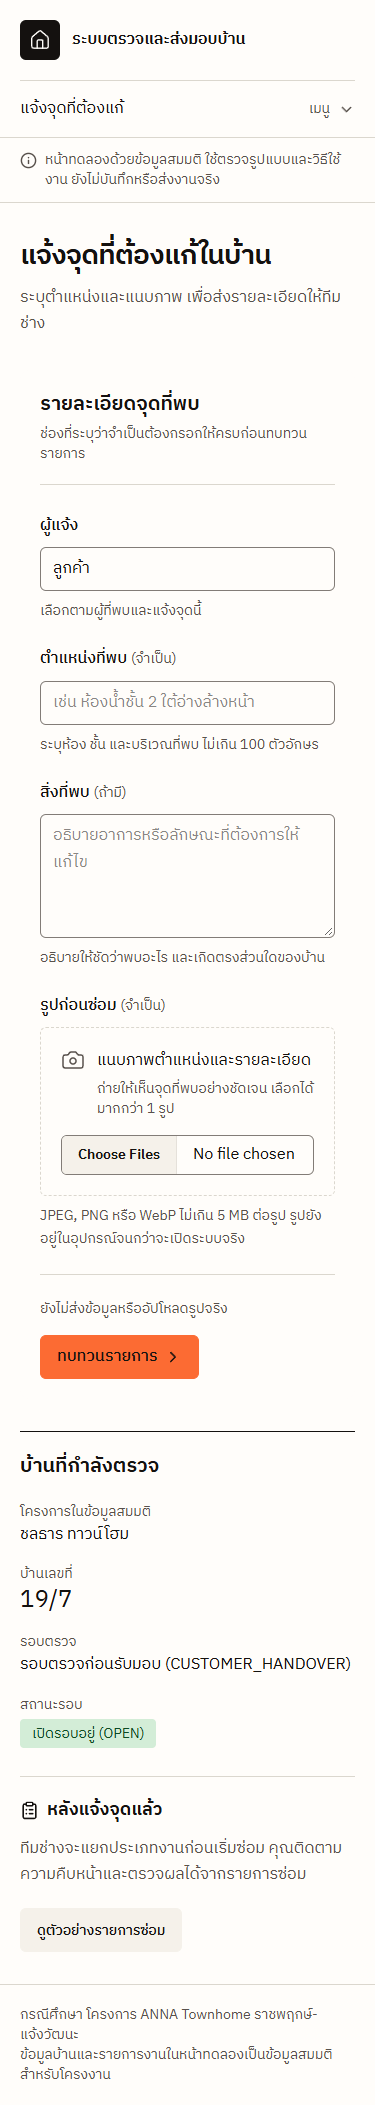
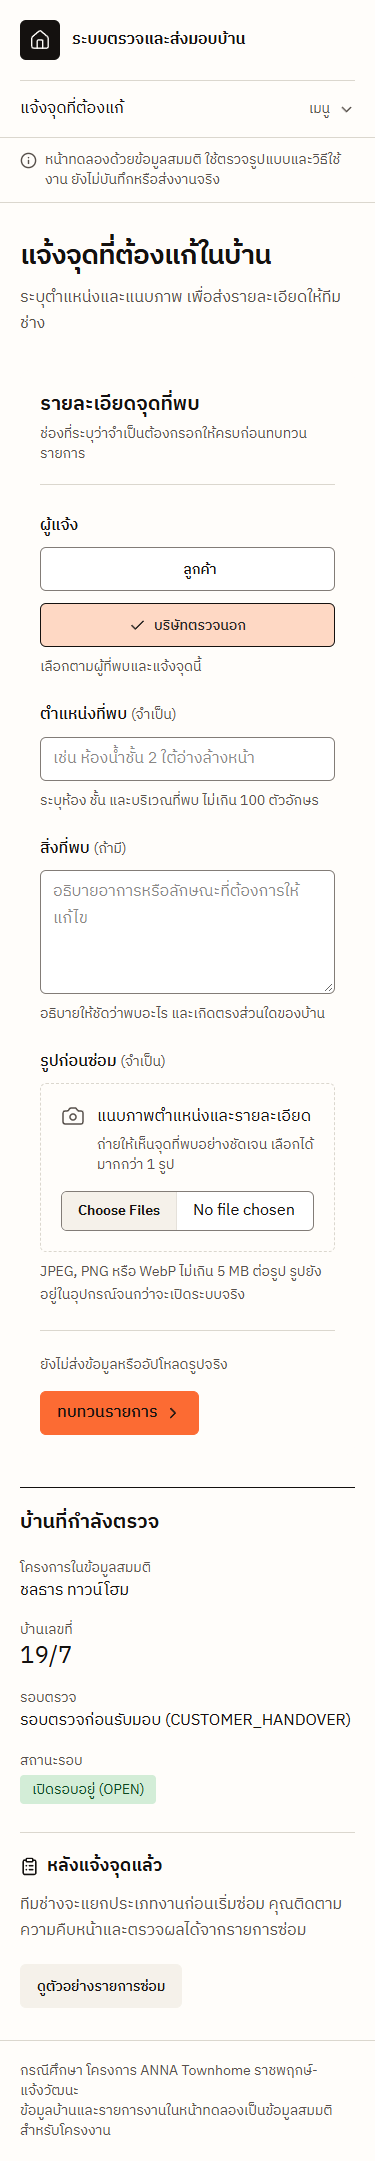
Fix grouped input focus and refine reporter selection

diff --git a/src/components/report-pilot.tsx b/src/components/report-pilot.tsx
@@ -1,7 +1,7 @@
 "use client";
 import {useRef,useState} from "react";
 import Link from "next/link";
-import {Camera,FileImage,ClipboardList,X,ChevronRight} from "lucide-react";
+import {Camera,FileImage,ClipboardList,X,ChevronRight,Check} from "lucide-react";
 type Errors=Partial<Record<"location"|"description"|"photos",string>>;
 export function ReportPilot(){
   const [reporter,setReporter]=useState("CUSTOMER"),[location,setLocation]=useState(""),[description,setDescription]=useState("");
@@ -15,7 +15,7 @@ export function ReportPilot(){
       <section className="min-w-0 rounded-box bg-base-100 p-5 sm:p-8" aria-label="แบบฟอร์มแจ้งจุด">
         <div className="mb-7 border-b border-base-300 pb-5"><h2 className="text-xl">รายละเอียดจุดที่พบ</h2><p className="mt-1 text-sm text-muted">ช่องที่ระบุว่าจำเป็นต้องกรอกให้ครบก่อนทบทวนรายการ</p></div>
         <form ref={formRef} onSubmit={submit} data-endpoint="" noValidate className="space-y-6">
-          <div><label htmlFor="reporter" className="field-label">ผู้แจ้ง</label><select id="reporter" name="reported_by_type" className="select w-full sm:max-w-72" value={reporter} onChange={e=>{setReporter(e.target.value);setReview(false);}}><option value="CUSTOMER">ลูกค้า</option><option value="EXTERNAL">บริษัทตรวจนอก</option></select><p className="helper mt-2">เลือกตามผู้ที่พบและแจ้งจุดนี้</p></div>
+          <fieldset aria-describedby="reporter-help"><legend className="field-label">ผู้แจ้ง</legend><div className="grid grid-cols-1 gap-3 sm:max-w-md sm:grid-cols-2">{[{value:"CUSTOMER",label:"ลูกค้า"},{value:"EXTERNAL",label:"บริษัทตรวจนอก"}].map(option=><label key={option.value} className="btn reporter-choice"><input type="radio" name="reported_by_type" value={option.value} checked={reporter===option.value} onChange={()=>{setReporter(option.value);setReview(false);}} className="sr-only"/><Check size={17} aria-hidden="true" className={reporter===option.value?"shrink-0":"invisible shrink-0"}/><span>{option.label}</span></label>)}</div><p id="reporter-help" className="helper mt-2">เลือกตามผู้ที่พบและแจ้งจุดนี้</p></fieldset>
           <div><label htmlFor="location" className="field-label">ตำแหน่งที่พบ <span className="text-sm font-normal text-muted">(จำเป็น)</span></label><input id="location" data-field="location" name="location_pin" type="text" autoComplete="off" required aria-required="true" aria-invalid={!!errors.location} aria-describedby="location-help" placeholder="เช่น ห้องน้ำชั้น 2 ใต้อ่างล้างหน้า" className="input w-full" value={location} onChange={e=>{setLocation(e.target.value);setReview(false);}} onBlur={()=>{if(location)setErrors(v=>({...v,location:location.trim().length>100?"ตำแหน่งยาวเกิน 100 ตัวอักษร":undefined}));}}/><p id="location-help" className={`helper mt-2 ${errors.location?'text-error-content!':''}`}>{errors.location??"ระบุห้อง ชั้น และบริเวณที่พบ ไม่เกิน 100 ตัวอักษร"}</p></div>
           <div><label htmlFor="description" className="field-label">สิ่งที่พบ <span className="text-sm font-normal text-muted">(ถ้ามี)</span></label><textarea id="description" data-field="description" name="description" aria-invalid={!!errors.description} aria-describedby="description-help" rows={4} placeholder="อธิบายอาการหรือลักษณะที่ต้องการให้แก้ไข" className="textarea w-full resize-y" value={description} onChange={e=>{setDescription(e.target.value);setReview(false);}}/><p id="description-help" className={`helper mt-2 ${errors.description?'text-error-content!':''}`}>{errors.description??"อธิบายให้ชัดว่าพบอะไร และเกิดตรงส่วนใดของบ้าน"}</p></div>
           <div><label htmlFor="photos" className="field-label">รูปก่อนซ่อม <span className="text-sm font-normal text-muted">(จำเป็น)</span></label><div className="rounded-field border border-dashed border-base-300 p-5"><div className="mb-4 flex items-start gap-3"><Camera size={24} strokeWidth={1.5} className="shrink-0 text-muted" aria-hidden="true"/><div><p>แนบภาพตำแหน่งและรายละเอียด</p><p className="mt-1 text-sm text-muted">ถ่ายให้เห็นจุดที่พบอย่างชัดเจน เลือกได้มากกว่า 1 รูป</p></div></div><input id="photos" data-field="photos" name="photos" type="file" accept="image/jpeg,image/png,image/webp" multiple className="file-input w-full" aria-required="true" aria-invalid={!!errors.photos} aria-describedby="photos-help" onChange={e=>{setPhotos(Array.from(e.target.files??[]));setReview(false);setErrors(v=>({...v,photos:undefined}));}}/></div><p id="photos-help" className={`helper mt-2 ${errors.photos?'text-error-content!':''}`}>{errors.photos??"JPEG, PNG หรือ WebP ไม่เกิน 5 MB ต่อรูป รูปยังอยู่ในอุปกรณ์จนกว่าจะเปิดระบบจริง"}</p>

diff --git a/src/app/globals.css b/src/app/globals.css
@@ -41,6 +41,7 @@
   --color-focus: oklch(43% 0.14 40);
   --color-muted: oklch(44% 0.012 60);
   --color-strong-rule: oklch(59% 0.01 60);
+  --color-field-surface: #ffffff;
   --dur-micro: 120ms;
   --ease-out: cubic-bezier(0.16, 1, 0.3, 1);
   --container-width: 80rem;
@@ -54,7 +55,12 @@ h1, h2, h3 { min-width: 0; overflow-wrap: break-word; font-weight: 600; line-hei
 button, a, input, select, textarea, summary { -webkit-tap-highlight-color: transparent; }
 :where(a, button, input, select, textarea, summary):focus-visible { outline: 2px solid var(--color-focus); outline-offset: 3px; }
 .input:focus-visible, .select:focus-visible, .textarea:focus-visible, .file-input:focus-visible { outline-offset: -3px; }
-.input, .select, .textarea, .file-input { border-color: var(--color-strong-rule); background: var(--color-base-100); font-size: 1rem; }
+.input, .select, .textarea, .file-input { border-color: var(--color-strong-rule); background: var(--color-field-surface); font-size: 1rem; }
+.input:has(> input):focus-within { border-color: var(--color-focus); outline: 2px solid var(--color-focus); outline-offset: 2px; }
+.input > input:focus, .input > input:focus-visible { outline: 0; box-shadow: none; }
+.reporter-choice { justify-content: center; gap: 0.5rem; border-color: var(--color-strong-rule); background: var(--color-field-surface); }
+.reporter-choice:has(input:checked) { border-color: var(--color-base-content); background: var(--color-accent); color: var(--color-accent-content); }
+.reporter-choice:has(input:focus-visible) { outline: 2px solid var(--color-focus); outline-offset: 3px; }
 .input, .select, .btn { min-height: 2.75rem; }
 .btn { font-weight: 500; box-shadow: none; transition: transform var(--dur-micro) var(--ease-out); }
 .btn:active:not(:disabled) { transform: translateY(1px); }

diff --git a/docs/UI-REVIEW-CHANGES.md b/docs/UI-REVIEW-CHANGES.md
@@ -1,0 +1,8 @@
+# ปรับตามการตรวจรูปแบบ 8 พฤศจิกายน 2569
+
+- ช่องค้นหาเดิมเกิด outline สองชุด: generic focus-visible บน input ด้านใน และ focus-within ของ daisyUI บนกลุ่ม ย้ายสีและกรอบที่เห็นไปกรอบกลุ่ม ส่วน input ด้านในกำหนด outline 0 โดยยังมี focus indication ที่ครอบทั้งไอคอนและช่องพิมพ์
+- ตรวจแยก `outline: none` ซึ่งเบราว์เซอร์ยังคำนวณความกว้าง 3px แม้ไม่วาดเส้น กับ `outline: 0` ซึ่งคำนวณเป็น 0px; ใช้แบบหลังเพื่อให้แน่นอนทั้ง pointer/keyboard
+- ผู้แจ้งเปลี่ยนจาก select เป็นสองปุ่มที่ใช้ native radio เลือกได้ทีละตัว รองรับ Tab/ลูกศร และส่งค่า reported_by_type เดิม
+- input/select/textarea/file-input ใช้ token พื้นขาวแยกจาก base surface ของธีม ไม่เปลี่ยนสี canvas ทั้งระบบ
+
+ผลตรวจล่าสุดอยู่ใน evidence/pilot-browser.json, evidence/hallmark-render.json และ screenshots/ ไม่มีการเปลี่ยน schema, query, สิทธิ์ หรือเปิดการบันทึกจริงนอกขอบเขต P1

diff --git a/design.md b/design.md
@@ -9,6 +9,7 @@
 - หน้าทำงานเริ่มจาก ruled list/table พร้อม detail pane ไม่เพิ่ม hero, marketing page, สถิติที่ไม่วัด, stock evidence, แผนที่ตกแต่ง หรือการ์ดซ้อนการ์ด
 - Container สูงสุด 80rem; desktop จัดข้อมูลสองคอลัมน์เมื่อพื้นที่พอ; มือถือเรียงรายการและเปลี่ยนเมนูเป็น disclosure
 - Focus ทันที, touch target อย่างน้อย 44px, coarse pointer 48px, reduced motion; รายการมี loading/empty/error/full
+- ช่องกรอกใช้พื้นขาวแยกจากพื้นกระดาษ; ช่องที่มีไอคอนและ input ร่วมกันใช้ focus ring ที่กรอบกลุ่มชั้นเดียว; ผู้แจ้งสองตัวเลือกใช้ native radio ที่แสดงเป็นปุ่ม
 - ป้ายสถานะเป็นไทย (CODE) ตาม CONTRACT v0.3.3; สีไม่ใช่ตัวบอกความหมายเพียงอย่างเดียว
 - P1 เป็น read-only review surface จาก fixture สมมติ หน้าทดลองทบทวนได้แต่ไม่แสดงว่าได้บันทึกจริง
 - G1 รับก่อนนำระบบออกแบบและ technical amendments ไปขยาย P2–P5

diff --git a/docs/P1-REVIEW.md b/docs/P1-REVIEW.md
@@ -25,7 +25,7 @@
 | ข้อจำกัด DB | ผ่าน FK, unique บ้าน, active round, signature, file owner, role/craft, enum, NULL/XOR, case-sensitive token, ไทย และขีดจำกัดรหัส | evidence/db-compatibility.json |
 | พร้อมกันหลาย connection | สองช่างรับจุดเดียวสำเร็จหนึ่งราย; 30 sequence values ไม่ซ้ำ | เป็น DB proof ยังไม่ใช่ HTTP service acceptance |
 | Browser layouts | **24/24** | 3 หน้าที่ 320/375/390/768/1024/1280/1440/1920px; ไม่ล้น viewport |
-| Browser interactions | **10/10** | filter/reload, empty/error/loading, selection, validation/focus, file limit/no POST, FIXED-only และ SSR ไม่มี JS |
+| Browser interactions | **12/12** | filter/reload, empty/error/loading, selection, group focus, reporter radio/keyboard, white fields, validation, file limit/no POST, FIXED-only และ SSR ไม่มี JS |
 | Accessibility อัตโนมัติ | **0 violations ในชุดที่ตรวจ** | axe WCAG2A/AA/2.1AA ที่ 390 และ 1280px ทั้ง 3 หน้า; ไม่อ้างว่าครอบคลุมทุกกรณี |
 | Hallmark | **Floor 0 FAIL / Reflex 0 / Warn 0** | static + render จริง 3 URLs; 15 ภาพจาก render tier |
 | Code/build | lint, TypeScript และ production build ผ่าน | ใช้ PostCSS แทนตัวโหลด CSS จากแม่แบบที่ build ไม่ผ่านบนเครื่องนี้ |
